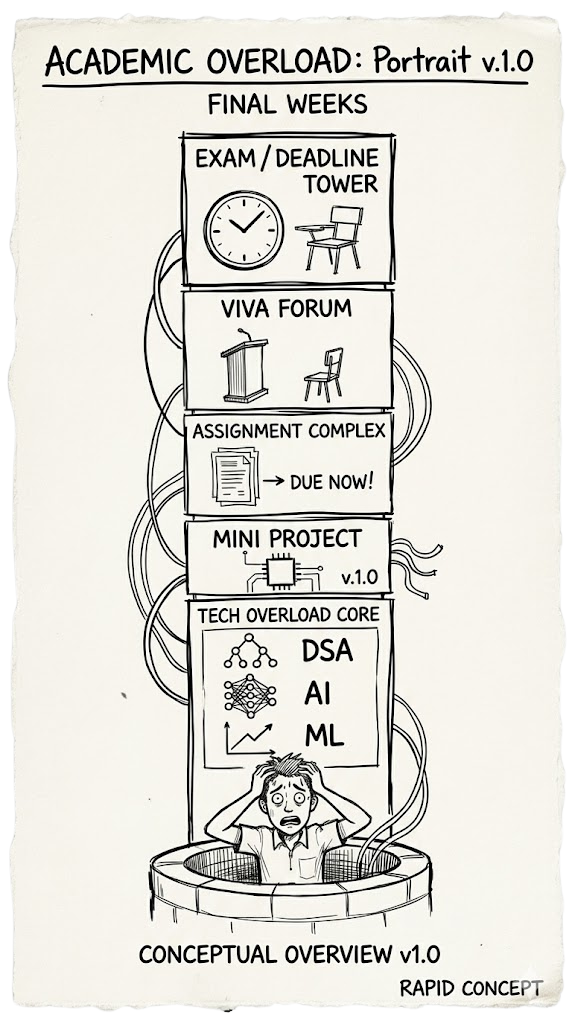
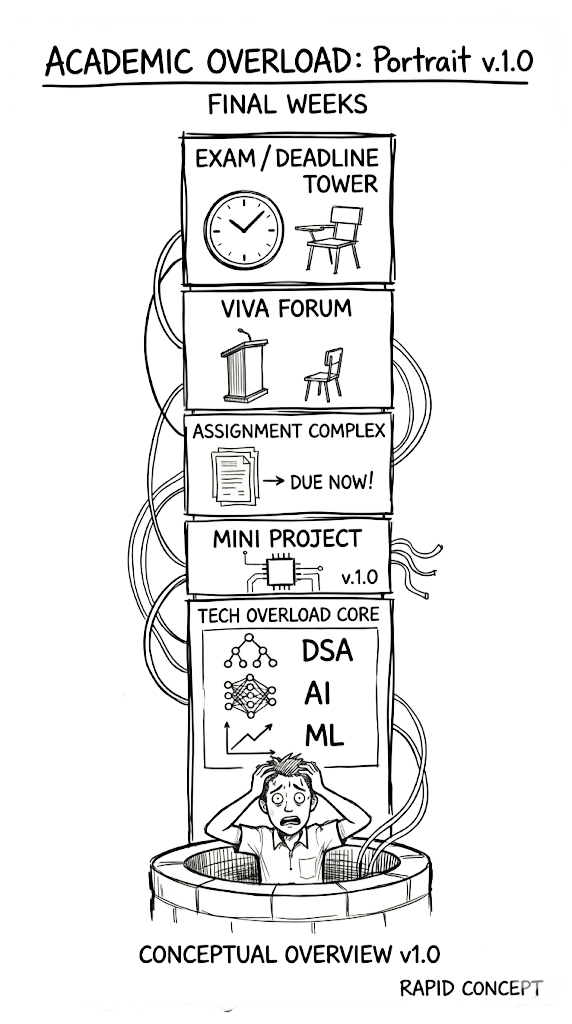
prototype

diff --git a/src/App.css b/src/App.css
@@ -3,13 +3,13 @@
 }
 
 :root {
-  --underline: rgba(255, 255, 255, 0.18);
-  --spine: #000;
-  --cover: #2d2d2d;
+  --underline: rgba(84, 94, 132, 0.18);
+  --spine: #201f27;
+  --cover: #e1d60d;
   --bg: #4d4d4d;
-  --insert: #ececec;
-  --page: #f5f5f5;
-  background: #000;
+  --insert: #5b2e0ebb;
+  --page: #f6f9faf0;
+  background: #000000;
   color: #808080;
   font-family: "Google Sans", Inter, system-ui, sans-serif;
 }
@@ -25,41 +25,37 @@ body,
 body {
   position: relative;
   width: 100vw;
-  background: #000;
+  background: #000000;
   overflow-x: hidden;
 }
 
 body::before {
   --size: 45px;
-  --line: rgba(255, 255, 255, 0.16);
+  --line: rgb(60, 206, 254, 0.64);
   content: '';
   position: fixed;
   inset: 0;
   width: 100vw;
   height: 100vh;
   background:
-    linear-gradient(90deg, var(--line) 1px, transparent 1px var(--size)) 50% 50% /
-      var(--size) var(--size),
-    linear-gradient(var(--line) 1px, transparent 1px var(--size)) 50% 50% /
-      var(--size) var(--size);
-  mask: linear-gradient(-20deg, transparent 50%, white);
+    linear-gradient(90deg, var(--line) 1px, transparent 1px var(--size)) 50% 50% / var(--size) var(--size),
+    linear-gradient(var(--line) 1px, transparent 1px var(--size)) 50% 50% / var(--size) var(--size);
+  mask: linear-gradient(-20deg, transparent 50%, rgb(255, 255, 255));
   pointer-events: none;
   z-index: 0;
 }
 
 body::after {
   --size: 45px;
-  --line: rgba(255, 255, 255, 0.16);
+  --line: rgba(60, 205, 254, 0.64);
   content: '';
   position: fixed;
   inset: 0;
   width: 100vw;
   height: 100vh;
   background:
-    linear-gradient(90deg, var(--line) 1px, transparent 1px var(--size)) 100% 100% /
-      var(--size) var(--size),
-    linear-gradient(var(--line) 1px, transparent 1px var(--size)) 100% 100% /
-      var(--size) var(--size);
+    linear-gradient(90deg, var(--line) 1px, transparent 1px var(--size)) 100% 100% / var(--size) var(--size),
+    linear-gradient(var(--line) 1px, transparent 1px var(--size)) 100% 100% / var(--size) var(--size);
   mask: linear-gradient(160deg, transparent 50%, white);
   pointer-events: none;
   z-index: 0;
@@ -74,7 +70,7 @@ a {
   position: relative;
   z-index: 1;
   width: 100vw;
-  height: calc(((var(--page-count) + 2) * 25) * 1vh);
+  height: calc(((var(--page-count) + 0.1) * 50) * 1vh);
   min-height: 100vh;
   background: transparent;
 }
@@ -92,22 +88,21 @@ a {
   line-height: 0.8;
   pointer-events: none;
   user-select: none;
-  opacity: 0.85;
+  opacity: 1.0;
 }
 
 .devscape span {
   position: relative;
   display: inline-block;
+  padding-bottom: 0.1em;
   -webkit-background-clip: text;
   background-clip: text;
   color: transparent;
-  background-image: linear-gradient(
-    to bottom,
-    rgba(255, 255, 255, 1) 0%,
-    rgba(255, 255, 255, 0.82) 42%,
-    rgba(255, 255, 255, 0.38) 86%,
-    rgba(255, 255, 255, 0) 95%
-  );
+  background-image: linear-gradient(to bottom,
+      rgba(255, 255, 255, 1) 0%,
+      rgb(255, 255, 255) 20%,
+      rgb(255, 255, 255) 35%,
+      rgb(255, 255, 255) 50%);
   -webkit-mask-image: linear-gradient(to bottom, black 0%, black 48%, rgba(0, 0, 0, 0.5) 82%, transparent 100%);
   mask-image: linear-gradient(to bottom, black 0%, black 48%, rgba(0, 0, 0, 0.5) 82%, transparent 100%);
 }
@@ -146,9 +141,9 @@ h1 {
 
 .page .page__number {
   position: absolute;
-  bottom: 1rem;
-  color: #808080;
-  font-size: 1vmin;
+  bottom: 0.4rem;
+  color: #000000;
+  font-size: 1.25vmin;
 }
 
 .page__half--front .page__number {
@@ -171,8 +166,7 @@ h1 {
   width: 100%;
   height: 100%;
   clip-path: inset(0 0.5% 0 0.5%);
-  transform: rotateY(calc(var(--rotation) * 1deg))
-    translate3d(0, 0, calc((0.5 * var(--coefficient)) * 1px));
+  transform: rotateY(calc(var(--rotation) * 1deg)) translate3d(0, 0, calc((0.5 * var(--coefficient)) * 1px));
 }
 
 .page__half--front {
@@ -190,14 +184,14 @@ h1 {
 
 .book {
   position: fixed;
-  top: 50%;
+  top: 60%;
   left: 50%;
-  width: 38vmin;
-  height: 50vmin;
+  width: 61vmin;
+  height: 80vmin;
   min-width: 210px;
   min-height: 280px;
   perspective: 1200px;
-  transform: translate(var(--book-anchor-shift), -50%) scale(var(--book-scale));
+  transform: translate(var(--book-anchor-shift), var(--book-y-shift, -50%)) scale(var(--book-scale));
   transform-style: preserve-3d;
 }
 
@@ -208,6 +202,10 @@ h1 {
   width: 94%;
   height: 94%;
   background: var(--insert);
+  background-image: url('/page-texture.jpg');
+  background-size: cover;
+  background-position: center;
+  background-blend-mode: multiply;
   border-radius: 5% 0 0 5%;
   transform: translate(0, -50%);
 }
@@ -241,7 +239,12 @@ h1 {
   left: 0;
   width: 100%;
   height: 100%;
-  background: var(--cover);
+  background-color: var(--cover);
+
+  background-image: url('/leather-texture-background.jpg');
+  background-size: cover;
+  background-position: center;
+  background-blend-mode: multiply;
   border-radius: 0 5% 5% 0;
 }
 
@@ -267,15 +270,18 @@ h1 {
 }
 
 .book__page:not(.book__cover) .page__half {
-  background:
-    repeating-linear-gradient(
-        0deg,
-        transparent 0 1rem,
-        var(--underline) 1rem calc(1rem + 1px),
-        transparent calc(1rem + 1px)
-      )
-      0 1rem / 100% 100% no-repeat,
-    var(--page);
+  background-color: var(--page);
+  background-image:
+    repeating-linear-gradient(0deg,
+      transparent 0 1rem,
+      var(--underline) 1rem calc(1rem + 1px),
+      transparent calc(1rem + 1px)),
+    url('/page-texture.jpg');
+
+  background-size: 100% 100%, cover;
+  background-position: 0 1rem, center;
+  background-repeat: no-repeat, no-repeat;
+  background-blend-mode: normal, multiply;
 }
 
 .sticker {

diff --git a/src/App.jsx b/src/App.jsx
@@ -1,12 +1,16 @@
-import { useEffect, useMemo, useState } from 'react'
+import { useEffect, useMemo, useState, useRef } from 'react'
 import { backCoverLogo, pageSpreads } from './bookImages'
 import './App.css'
 
-const PAGE_SCROLL = 0.25
+const PAGE_SCROLL = 0.5
 const PAGE_COUNT = pageSpreads.length * 2
 
 function clamp(value, min = 0, max = 1) {
   return Math.min(Math.max(value, min), max)
+}
+
+function easeInOut(x) {
+  return x < 0.5 ? 2 * x * x : 1 - 2 * (1 - x) * (1 - x);
 }
 
 function Sticker() {
@@ -24,22 +28,36 @@ function PageSide({ side, children, pageNumber }) {
 
 function SketchLink({ sketch }) {
   return (
-    <a href={sketch.href} target="_blank" rel="noreferrer noopener" aria-label={sketch.alt}>
+    <button className="sketchButton" onClick={() => onClick(sketch)} aria-label={`View details for ${sketch.alt}`}>
       <img src={sketch.image} alt={sketch.alt} />
-    </a>
+    </button>
   )
 }
 
 function App() {
   const [viewportHeight, setViewportHeight] = useState(() => window.innerHeight)
   const [scrollY, setScrollY] = useState(() => window.scrollY)
+  const targetScroll = useRef(window.scrollY)
+  const currentScroll = useRef(window.scrollY)
+
 
   useEffect(() => {
     let frameId = 0
 
     const updateScroll = () => {
-      cancelAnimationFrame(frameId)
-      frameId = requestAnimationFrame(() => setScrollY(window.scrollY))
+      targetScroll.current = window.scrollY
+    }
+
+    const updateLoop = () => {
+      const diff = targetScroll.current - currentScroll.current
+
+      let move = diff * 0.08
+      move = clamp(move, -30, 30)
+
+      currentScroll.current += move
+      setScrollY(currentScroll.current)
+
+      frameId = requestAnimationFrame(updateLoop)
     }
 
     const updateViewport = () => {
@@ -49,6 +67,7 @@ function App() {
 
     window.addEventListener('scroll', updateScroll, { passive: true })
     window.addEventListener('resize', updateViewport)
+    updateLoop()
 
     return () => {
       cancelAnimationFrame(frameId)
@@ -61,7 +80,9 @@ function App() {
   const bookOpenProgress = clamp(scrollY / step)
   const bookScale = 0.5 + bookOpenProgress * 0.5
   const bookAnchorShift = `${-50 + bookOpenProgress * 50}%`
+  const bookYShift = `${-50 - (bookOpenProgress * 15)}%`
   const logoOpacity = clamp((scrollY - 13.5 * step) / (0.5 * step))
+  const devscapeOpacity = 1 - bookOpenProgress
 
   const pages = useMemo(() => {
     return [
@@ -76,7 +97,8 @@ function App() {
     const zProgress = index === pages.length - 1 ? 0 : clamp((scrollY - (index + 1) * step) / (0.5 * step))
     const initialZ = index === 0 ? 13 : -index
     const finalZ = index === 0 ? -13 : index
-    const rotateY = -turnProgress * (180 - index / 2)
+    const easedTurn = easeInOut(turnProgress)
+    const rotateY = -easedTurn * (180 - index / 2)
     const z = initialZ + (finalZ - initialZ) * zProgress
 
     return {
@@ -89,9 +111,9 @@ function App() {
   return (
     <main
       className="book-scroll"
-      style={{ '--page-count': PAGE_COUNT, '--book-scale': bookScale, '--book-anchor-shift': bookAnchorShift }}
+      style={{ '--page-count': PAGE_COUNT, '--book-scale': bookScale, '--book-anchor-shift': bookAnchorShift, '--book-y-shift': bookYShift }}
     >
-      <div className="devscape" aria-label="devscape">
+      <div className="devscape" aria-label="devscape" style={{ opacity: devscapeOpacity }}>
         <span>Devscape</span>
       </div>
       <h1>Scroll</h1>